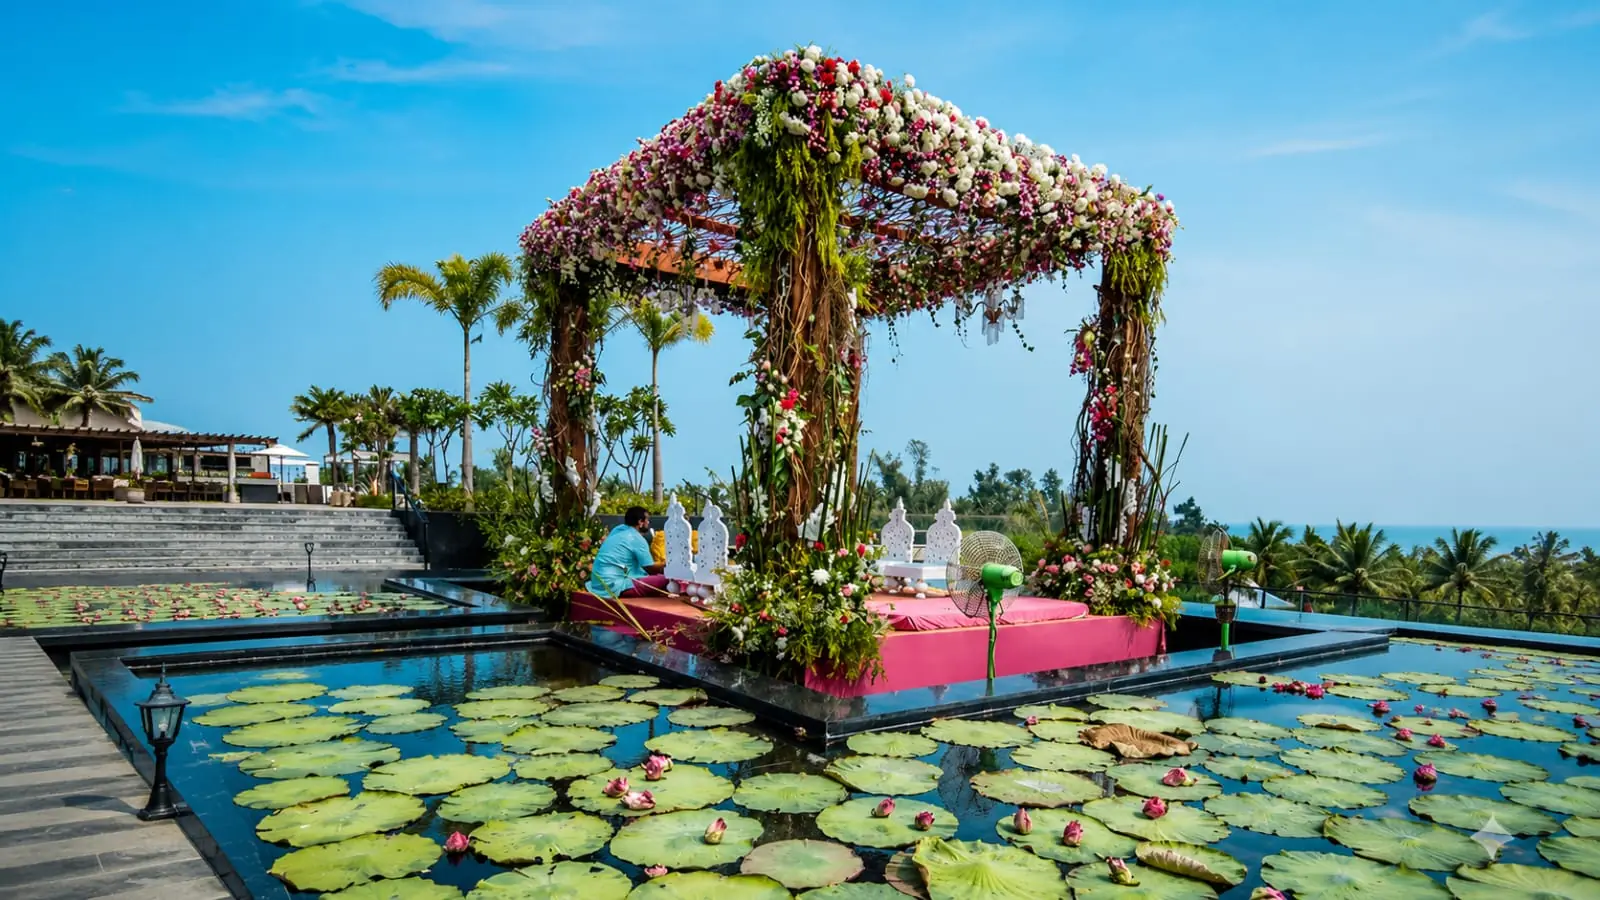
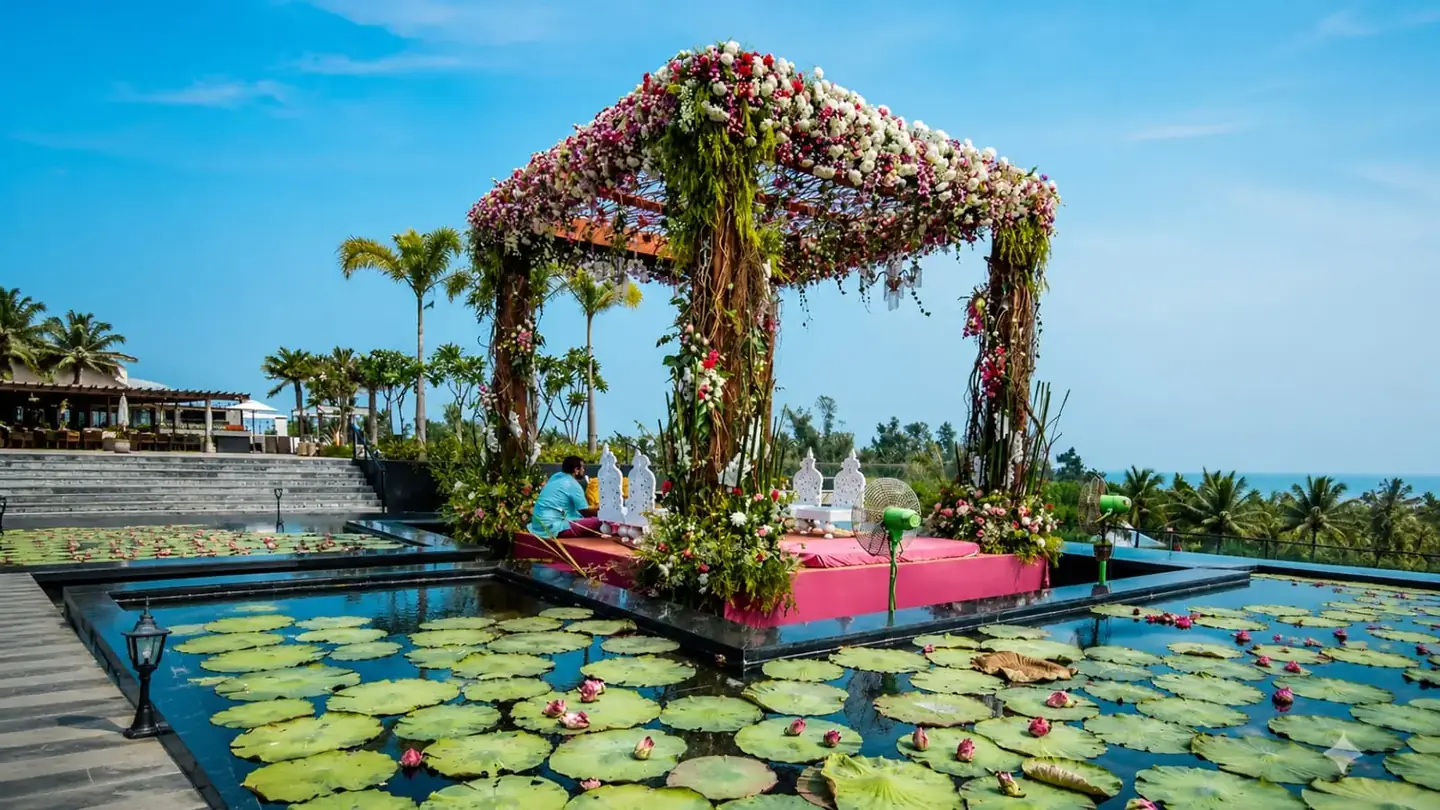
Client audit fixes: founder titles, service wording, listing filters, images under 150 KB
- About: Harsimran Singh -> Founder, Karan Malhotra -> Co-Founder
- Homepage service copy now matches About (own team + partner network)
- /farmhouses: location filter, price range filter, sort (price, name)
- Recompress 17 public images to under 150 KB

diff --git a/app/farmhouses/FarmhousesClient.jsx b/app/farmhouses/FarmhousesClient.jsx
@@ -8,12 +8,41 @@ import Footer from "../components/Footer";
 // Listings arrive pre-rendered from the server (see page.js) so search
 // engines see them. If the server could not load them, the page falls
 // back to fetching in the browser exactly as before.
+const PRICE_RANGES = [
+  { value: "under-25k", label: "Under ₹25,000", min: 0, max: 25000 },
+  { value: "25k-50k", label: "₹25,000 – ₹50,000", min: 25000, max: 50000 },
+  { value: "50k-1l", label: "₹50,000 – ₹1,00,000", min: 50000, max: 100000 },
+  { value: "1l-plus", label: "₹1,00,000 and above", min: 100000, max: Infinity },
+];
+
+// Pull the first number out of a price like "₹35,000 / night" or
+// "Starting 1.2 Lakh". Returns null when there is no usable number.
+function parsePrice(value) {
+  if (value === null || value === undefined) return null;
+  const text = String(value).toLowerCase().replace(/,/g, "");
+  const match = text.match(/\d+(\.\d+)?/);
+  if (!match) return null;
+  let amount = parseFloat(match[0]);
+  if (/\b(lakh|lac|l)\b/.test(text.slice(match.index + match[0].length, match.index + match[0].length + 6))) {
+    amount *= 100000;
+  } else if (/^\s*k\b/.test(text.slice(match.index + match[0].length))) {
+    amount *= 1000;
+  }
+  return Number.isFinite(amount) && amount > 0 ? amount : null;
+}
+
+const selectClass =
+  "w-full bg-[#17110B] border border-[#3A2E22] rounded-xl px-4 py-3 text-white outline-none transition focus:border-[#C9A34A] focus:ring-1 focus:ring-[#C9A34A]";
+
 const Farms = ({ initialVenues = null }) => {
   const hasInitial = Array.isArray(initialVenues);
   const [venues, setVenues] = useState(hasInitial ? initialVenues : []);
   const [loading, setLoading] = useState(!hasInitial);
   const [error, setError] = useState("");
   const [searchQuery, setSearchQuery] = useState("");
+  const [locationFilter, setLocationFilter] = useState("all");
+  const [priceFilter, setPriceFilter] = useState("all");
+  const [sortBy, setSortBy] = useState("default");
 
   const fetchFarmhouses = async () => {
     try {
@@ -102,38 +131,95 @@ const Farms = ({ initialVenues = null }) => {
    * =========================================
    */
 
+  // Distinct locations for the location filter, A-Z.
+  const locationOptions = useMemo(() => {
+    const seen = new Map();
+    venues.forEach((venue) => {
+      const label = String(venue.product_location || "").trim();
+      if (label && !seen.has(label.toLowerCase())) {
+        seen.set(label.toLowerCase(), label);
+      }
+    });
+    return [...seen.values()].sort((a, b) => a.localeCompare(b));
+  }, [venues]);
+
+  const filtersActive =
+    searchQuery.trim() !== "" ||
+    locationFilter !== "all" ||
+    priceFilter !== "all" ||
+    sortBy !== "default";
+
+  const clearFilters = () => {
+    setSearchQuery("");
+    setLocationFilter("all");
+    setPriceFilter("all");
+    setSortBy("default");
+  };
+
   const filteredVenues = useMemo(() => {
     const query = searchQuery.trim().toLowerCase();
+    const range = PRICE_RANGES.find((r) => r.value === priceFilter);
 
-    if (!query) {
-      return venues;
+    const result = venues.filter((venue) => {
+      const name = String(venue.product_name || "").toLowerCase();
+      const location = String(venue.product_location || "").toLowerCase();
+      const description = String(venue.product_detail || "").toLowerCase();
+      const category = String(venue.category_name || "").toLowerCase();
+
+      if (
+        query &&
+        !(
+          name.includes(query) ||
+          location.includes(query) ||
+          description.includes(query) ||
+          category.includes(query)
+        )
+      ) {
+        return false;
+      }
+
+      if (
+        locationFilter !== "all" &&
+        location.trim() !== locationFilter.toLowerCase()
+      ) {
+        return false;
+      }
+
+      if (range) {
+        const price = parsePrice(venue.product_price);
+        if (price === null || price < range.min || price >= range.max) {
+          return false;
+        }
+      }
+
+      return true;
+    });
+
+    if (sortBy === "price-asc" || sortBy === "price-desc") {
+      const dir = sortBy === "price-asc" ? 1 : -1;
+      // Listings without a price always go last.
+      return [...result].sort((a, b) => {
+        const pa = parsePrice(a.product_price);
+        const pb = parsePrice(b.product_price);
+        if (pa === null && pb === null) return 0;
+        if (pa === null) return 1;
+        if (pb === null) return -1;
+        return (pa - pb) * dir;
+      });
     }
 
-    return venues.filter((venue) => {
-      const name = String(
-        venue.product_name || ""
-      ).toLowerCase();
-
-      const location = String(
-        venue.product_location || ""
-      ).toLowerCase();
-
-      const description = String(
-        venue.product_detail || ""
-      ).toLowerCase();
-
-      const category = String(
-        venue.category_name || ""
-      ).toLowerCase();
-
-      return (
-        name.includes(query) ||
-        location.includes(query) ||
-        description.includes(query) ||
-        category.includes(query)
+    if (sortBy === "name") {
+      return [...result].sort((a, b) =>
+        String(a.product_name || "").localeCompare(
+          String(b.product_name || ""),
+          undefined,
+          { numeric: true }
+        )
       );
-    });
-  }, [venues, searchQuery]);
+    }
+
+    return result;
+  }, [venues, searchQuery, locationFilter, priceFilter, sortBy]);
 
   /*
    * =========================================
@@ -328,6 +414,71 @@ const Farms = ({ initialVenues = null }) => {
 
           </div>
 
+          {/* FILTERS & SORT */}
+          <div className="grid grid-cols-1 sm:grid-cols-3 gap-4 mt-4 max-w-3xl">
+            <label className="block">
+              <span className="block text-xs uppercase tracking-[0.15em] text-[#8F857A] mb-2">
+                Location
+              </span>
+              <select
+                value={locationFilter}
+                onChange={(e) => setLocationFilter(e.target.value)}
+                className={selectClass}
+              >
+                <option value="all">All locations</option>
+                {locationOptions.map((loc) => (
+                  <option key={loc} value={loc}>
+                    {loc}
+                  </option>
+                ))}
+              </select>
+            </label>
+
+            <label className="block">
+              <span className="block text-xs uppercase tracking-[0.15em] text-[#8F857A] mb-2">
+                Price range
+              </span>
+              <select
+                value={priceFilter}
+                onChange={(e) => setPriceFilter(e.target.value)}
+                className={selectClass}
+              >
+                <option value="all">Any price</option>
+                {PRICE_RANGES.map((range) => (
+                  <option key={range.value} value={range.value}>
+                    {range.label}
+                  </option>
+                ))}
+              </select>
+            </label>
+
+            <label className="block">
+              <span className="block text-xs uppercase tracking-[0.15em] text-[#8F857A] mb-2">
+                Sort by
+              </span>
+              <select
+                value={sortBy}
+                onChange={(e) => setSortBy(e.target.value)}
+                className={selectClass}
+              >
+                <option value="default">Newest</option>
+                <option value="price-asc">Price: Low to High</option>
+                <option value="price-desc">Price: High to Low</option>
+                <option value="name">Name: A to Z</option>
+              </select>
+            </label>
+          </div>
+
+          {filtersActive && (
+            <button
+              type="button"
+              onClick={clearFilters}
+              className="mt-3 text-sm text-[#C9A34A] hover:text-[#E1C56E] underline underline-offset-4"
+            >
+              Clear all filters
+            </button>
+          )}
+
           {/* SEARCH STATUS */}
           {searchQuery && (
             <p className="text-[#8F857A] text-sm mt-3">
@@ -418,15 +569,15 @@ const Farms = ({ initialVenues = null }) => {
 
               <p className="text-[#B8AFA5] mb-6">
                 We couldn't find a farmhouse matching
-                your search. Try another name, location
-                or keyword.
+                your search and filters. Try another
+                name, location or price range.
               </p>
 
               <button
-                onClick={() => setSearchQuery("")}
+                onClick={clearFilters}
                 className="px-7 py-3 bg-[#C9A34A] text-[#0F0803] font-medium rounded-md hover:bg-[#D8B25B] transition"
               >
-                Clear Search
+                Clear Filters
               </button>
 
             </div>

diff --git a/app/components/home/WhoWeAre.jsx b/app/components/home/WhoWeAre.jsx
@@ -25,10 +25,10 @@ export default function WhoWeAre() {
           </p>
 
           <p className="text-lg md:text-xl leading-8 text-[#5C5C5C]">
-            We pair an extensive portfolio of 50+ handpicked venues with
-            in-house decoration, catering, and bartending services, giving you
-            a single accountable partner from the first conversation to the
-            final bow.
+            We pair an extensive portfolio of 50+ handpicked venues with our
+            own planning team and a trusted network of décor, catering, and
+            bartending partners, giving you a single accountable partner from
+            the first conversation to the final bow.
           </p>
         </div>
 

diff --git a/app/components/about/OurTeamSection.js b/app/components/about/OurTeamSection.js
@@ -2,13 +2,13 @@ export default function OurTeamSection() {
   const directors = [
     {
       name: "Harsimran Singh",
-      title: "Managing Director",
+      title: "Founder",
       image: "/harsimran-singh.webp",
       bio: "Founder of Effortless Events Pvt. Ltd., leading venue partnerships and end-to-end event execution across Delhi NCR.",
     },
     {
       name: "Karan Malhotra",
-      title: "Managing Director",
+      title: "Co-Founder",
       image: "/karan-malhotra.webp",
       bio: "Co-founder of Effortless Events Pvt. Ltd., overseeing client experience, event strategy, and on-ground coordination.",
     },
